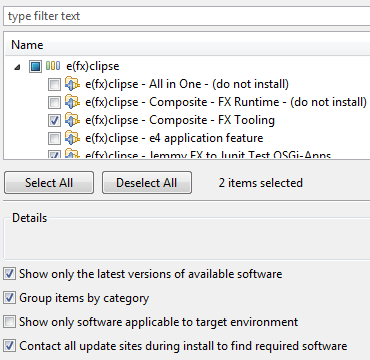
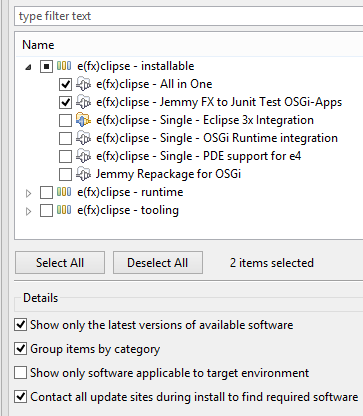
This update changes 2 pictures and updates index.html. I checked the same distros to install as before.
@malcjohn

diff --git a/homepage/install.html b/homepage/install.html
@@ -267,12 +267,11 @@
 	 Also, make sure the "Contact all update sites during install to find required software" is checked.
 	 </p>
 	 <p>
-	 We do <b>not</b> recommend installing the three features that are supposed to become part of your target platform, i.e.,
+	 We do <b>not</b> recommend installing the following features that are supposed to become part of your target platform, i.e.,
 	 </p>
 	 <ul>
-	 <li>e(fx)clipse - All in One - (do not install)</li>
-	 <li>e(fx)clipse - Composite - FX Runtime - (do not install)</li>
-	 <li>e(fx)clipse - e4 application feature</li>
+	 <li>e(fx)clipse - runtime - FX Runtime - (do not install)</li>
+	 <li>e(fx)clipse - tooling - Any single component standalone</li>
 	 </ul>
 	 <p>
 	 You may, however, install the FX Runtime feature into your IDE but we strongly recommend composing your own target platform.
